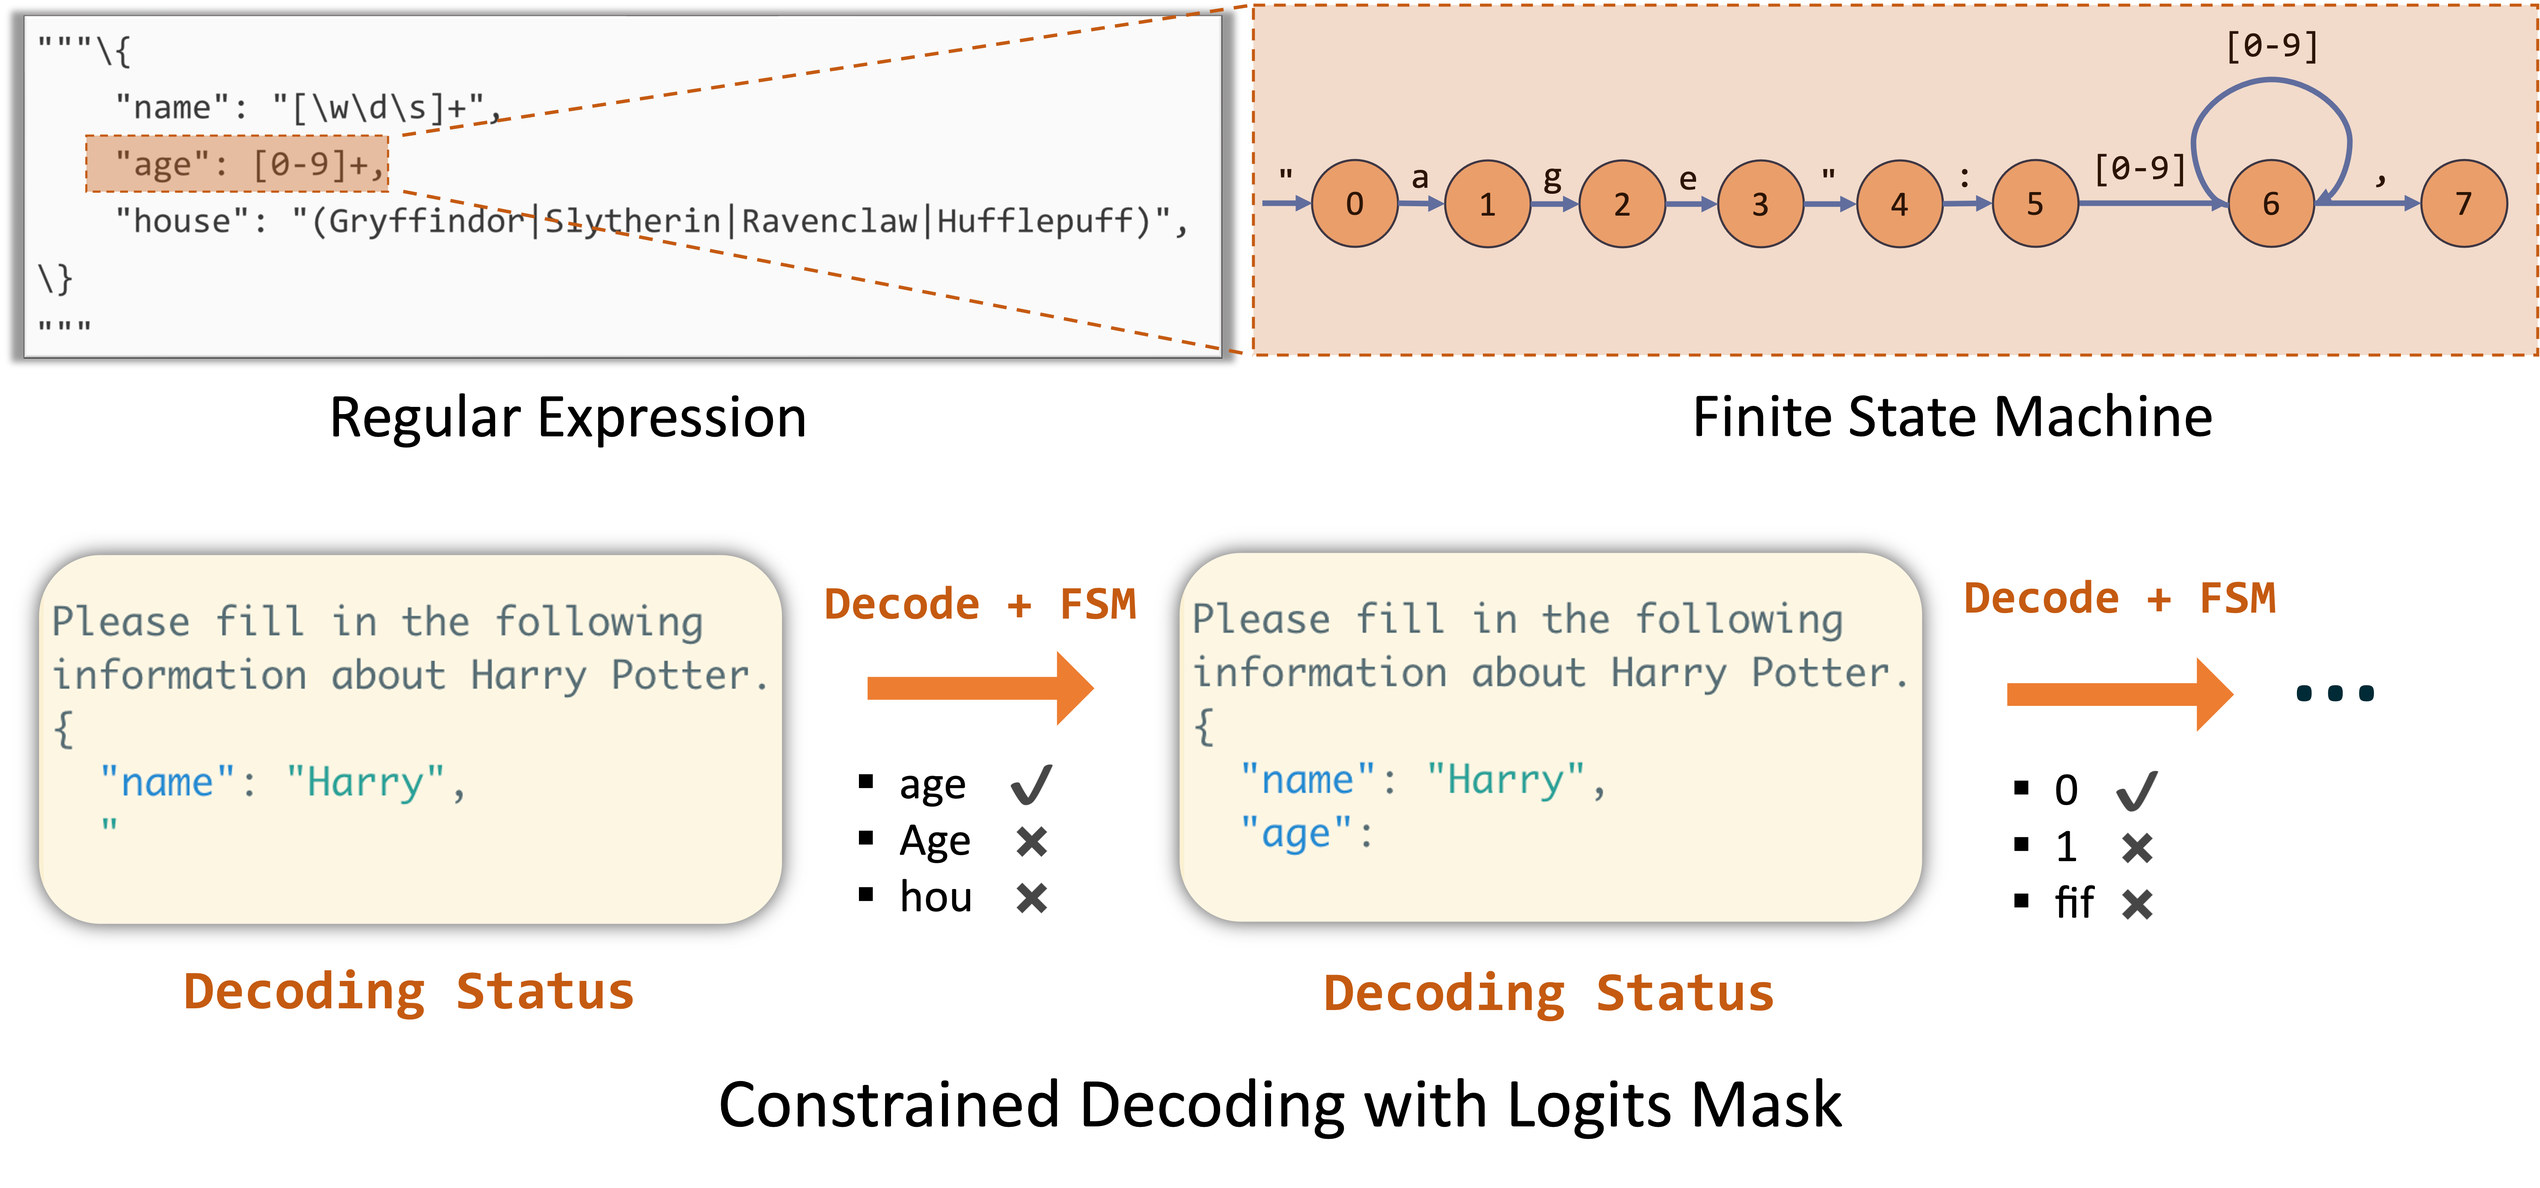
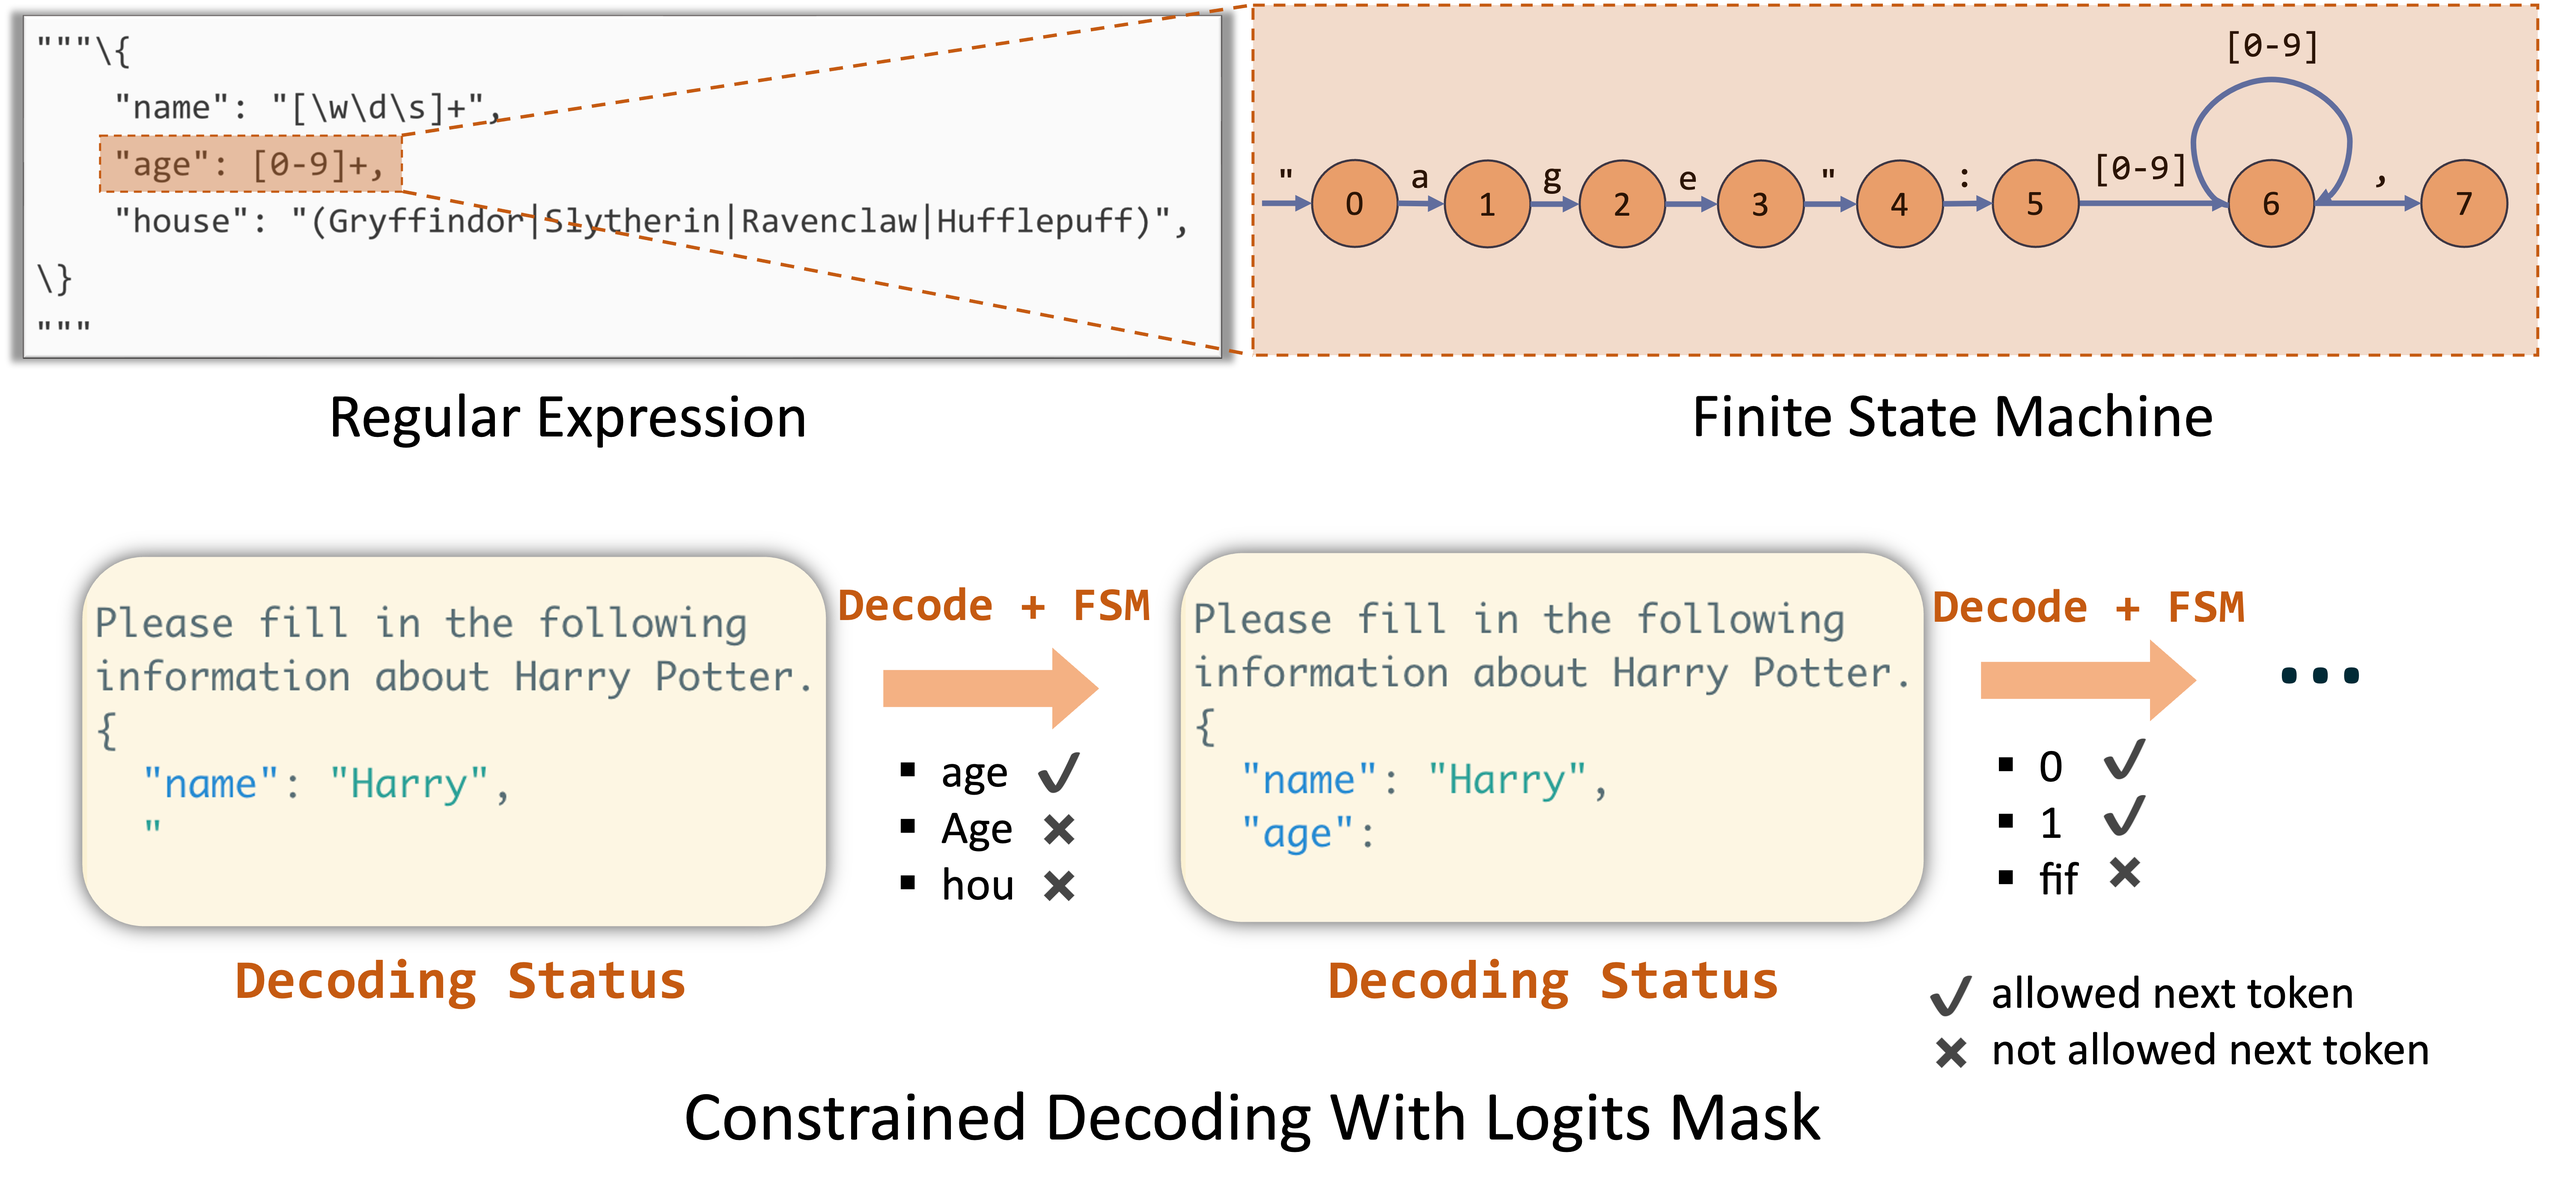
update method1

diff --git a/blog/2024-02-05-compressed-fsm.md b/blog/2024-02-05-compressed-fsm.md
@@ -33,10 +33,11 @@ This method involves transforming the JSON schema into a regular expression. We 
 
 <img id = "figure3" src="/images/blog/compressed_fsm/method1.png" style="width: 100%; max-width: 100%; margin-left: auto; margin-right: auto; margin-bottom: auto"></img>
 <p style="color:gray; text-align: center;">
-Figure 3: Constrained Decoding based on FSM and Logits Masking
+Figure 3: Constrained Decoding based on FSM and Logits Masking. In the first constrained decoding pass, only
+<code>age</code> is allowed. In the second pass, as the regex requires digits, both <code>0</code> and <code>1</code> are allowed, but the LLM would sample <code>1</code> with a higher probability.
 </p>
 
-The FSM-based method utilizes the generalized regular expressions to define the low-level rules, which can be applied to a wide range of grammars, such as JSON schema, IP addresses and emails.
+The FSM-based method utilizes generalized regular expressions to define the low-level rules, which can be applied to a wide range of grammars, such as JSON schema, IP addresses, and emails.
 
 **Limitations:**  
 Since the FSM is constructed at the token level, it can transition the state by only one token at each step. Consequently, it can decode only one token at a time, which results in slow decoding.
@@ -103,7 +104,7 @@ to form a more frequent token
 <code style="color: black; background-color: lightblue;">"[\w\d\s]*"</code>
 (without the last 
 <code style="color: black; background-color: lightblue;">,</code>
-), it can lead to endless decoding, because an LLM wants to stop with <code style="color: black; background-color: lightblue;">",</code> but this token is not allowed.
+), it can lead to endless decoding because an LLM wants to stop with <code style="color: black; background-color: lightblue;">",</code> but this token is not allowed.
 
 Moreover, during jump-forward decoding, we've found that different tokenization strategies to the jump-forwarded part may lead to different logit distributions for the subsequent tokens. Simply appending the tokenized jump-forwarded section to the current token sequence might yield unexpected outcomes.
 
